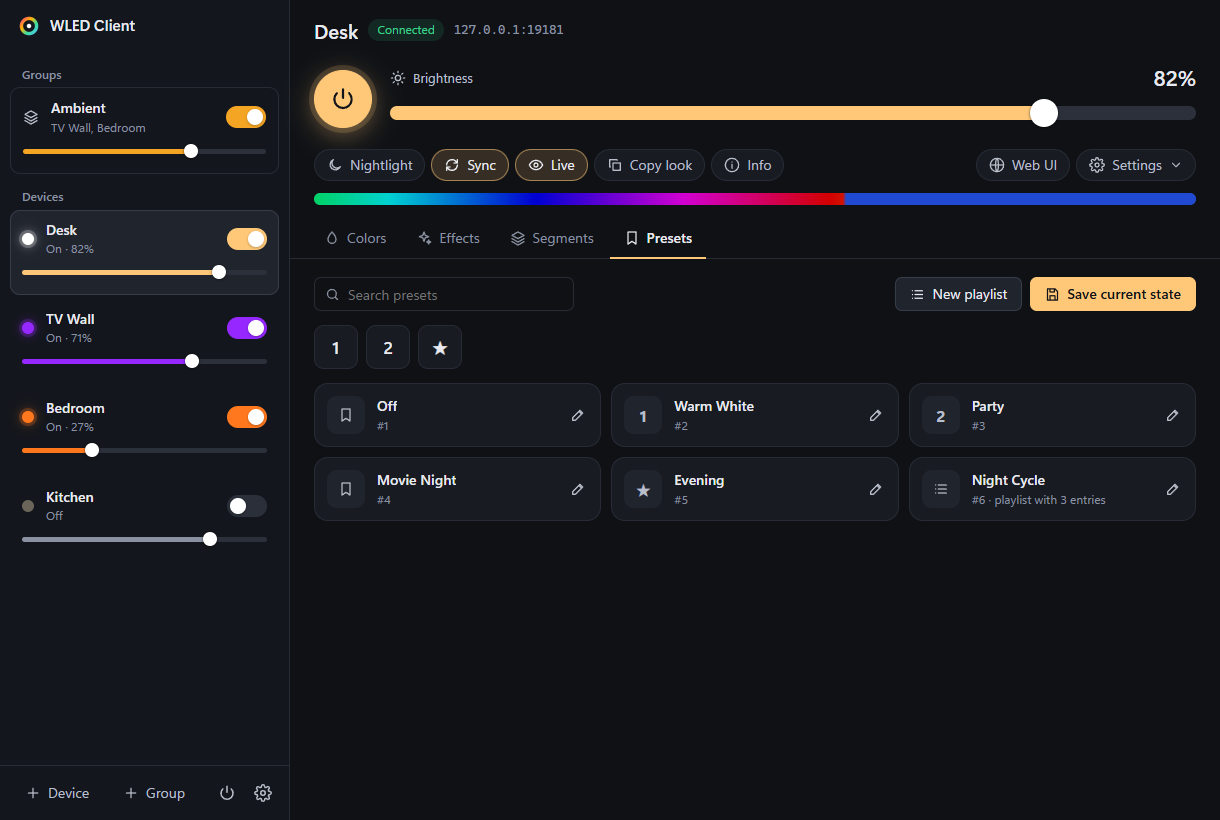
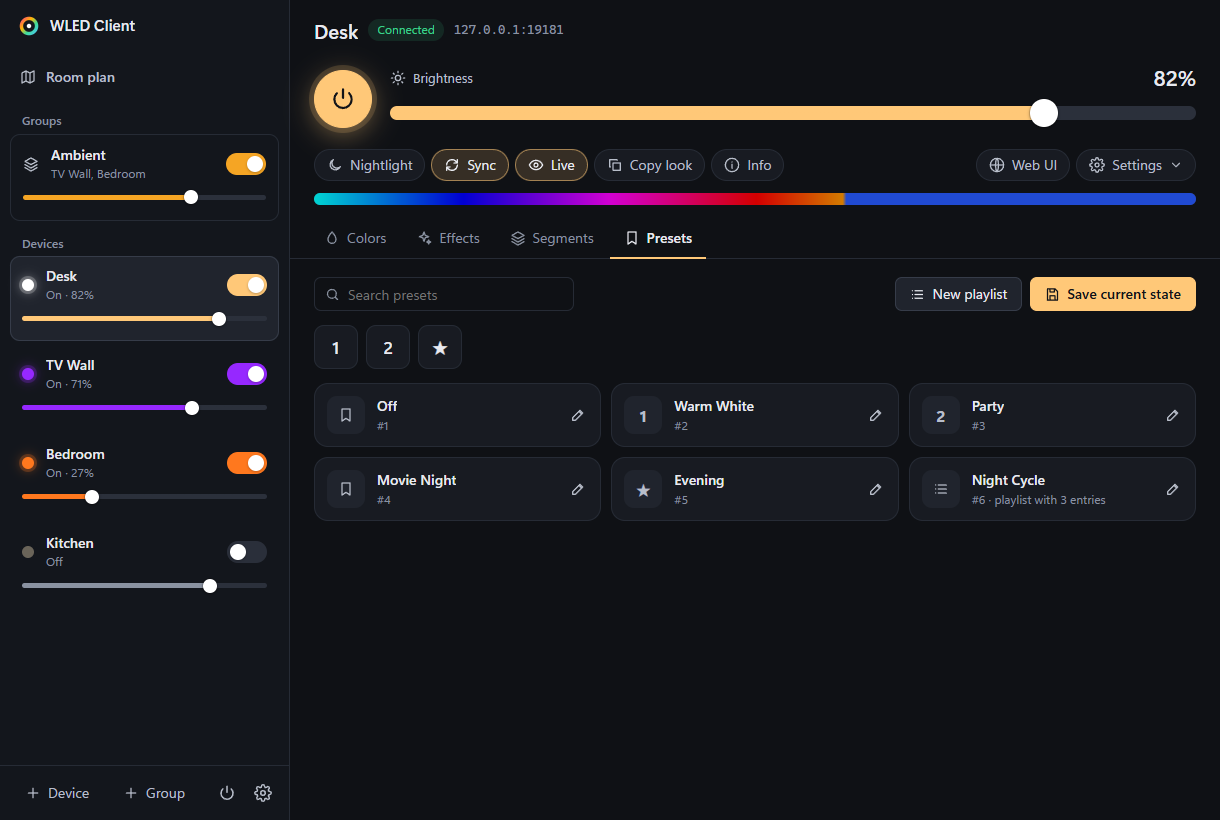
README: room plan

diff --git a/README.md b/README.md
@@ -25,6 +25,8 @@ automations.**
 - **Groups** — switch and dim several lights together; brightness scales proportionally. Click a group to set a
   color, effect, palette or look for all of its lights
 - **Copy look** — effect, palette, colors and effect sliders from one light to other lights or groups
+- **Room plan** — draw your rooms and place strips, bulbs and matrices where they hang; they glow live, and a click
+  switches, dims or sets an effect
 - **[Links for automations](#links-for-automations)** — control lights from a Stream Deck, hotkeys or the Task
   Scheduler
 - **Everything the web UI does** — colors (wheel, RGBW, CCT), all effects with their own sliders and options,
@@ -34,6 +36,8 @@ automations.**
 - **Light and dark theme**, **English and German**, **automatic updates**
 
 <p align="center"><img src="docs/groups.gif" width="860" alt="Groups: copy a look to a group, set a color and an effect for all members, dim the group" /></p>
+
+<p align="center"><img src="docs/screenshots/plan.png" width="860" alt="Room plan: rooms with live LED strips" /></p>
 
 | | |
 |:---:|:---:|
@@ -126,10 +130,10 @@ mock/fixtures/   recorded WLED 16.0.1 API responses for the simulator
 ## Kurz auf Deutsch
 
 Windows-App für alle WLED-Lampen im Netz: Seitenleiste mit Ein/Aus und Helligkeit je Gerät, Tray-Schnellzugriff,
-Gruppen mit Gruppenansicht, Look übertragen, Links für Stream Deck und Automationen — dazu alles aus der
-WLED-Weboberfläche (Farben, Effekte, Paletten, Segmente, Presets, Playlists, Live-Vorschau). Installer unter
-[Releases](https://github.com/bangboomben/wled-client/releases/latest), ohne Administratorrechte. Oberfläche auf
-Deutsch und Englisch.
+Gruppen mit Gruppenansicht, Look übertragen, Raumplan mit Live-Farben, Links für Stream Deck und Automationen —
+dazu alles aus der WLED-Weboberfläche (Farben, Effekte, Paletten, Segmente, Presets, Playlists, Live-Vorschau).
+Installer unter [Releases](https://github.com/bangboomben/wled-client/releases/latest), ohne Administratorrechte.
+Oberfläche auf Deutsch und Englisch.
 
 ## Feedback
 
